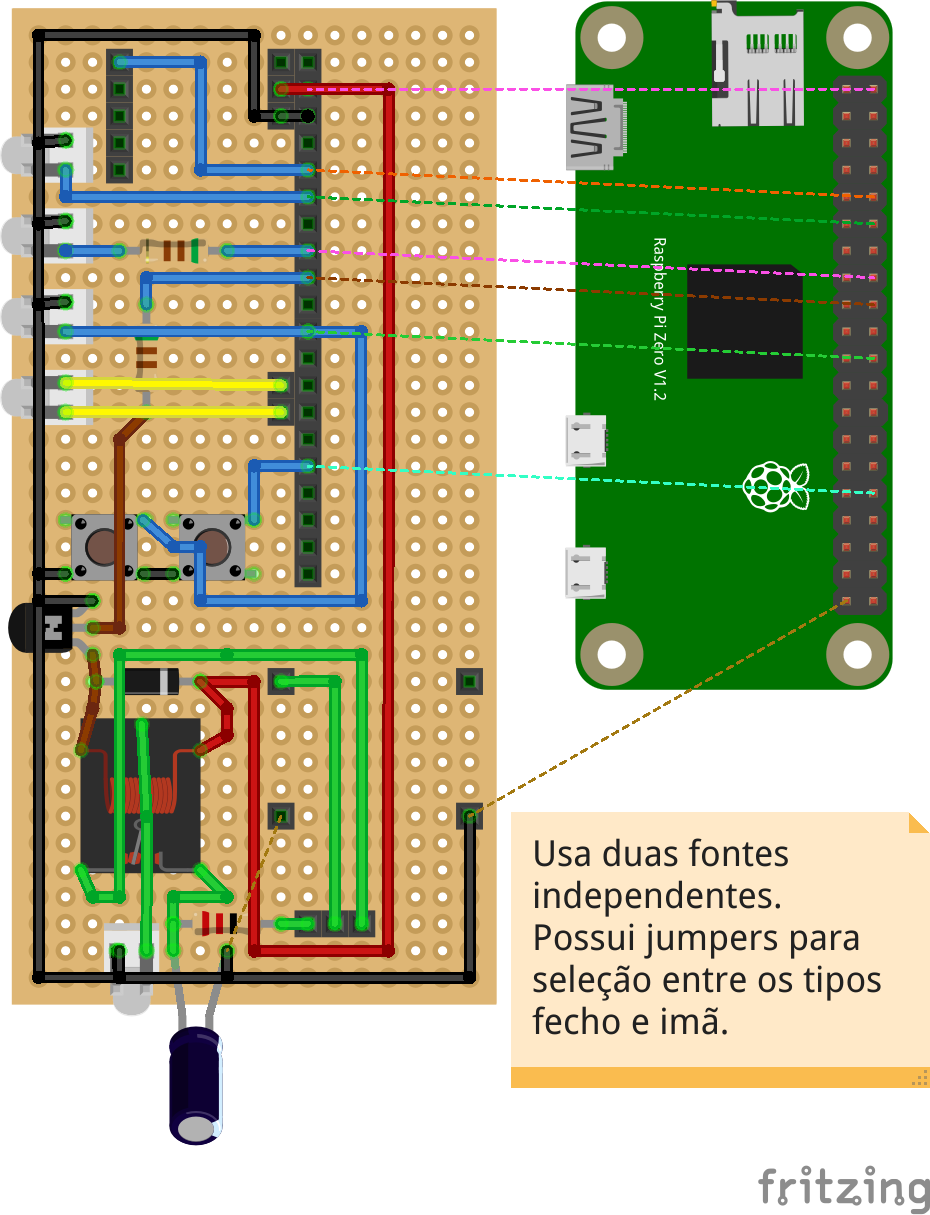
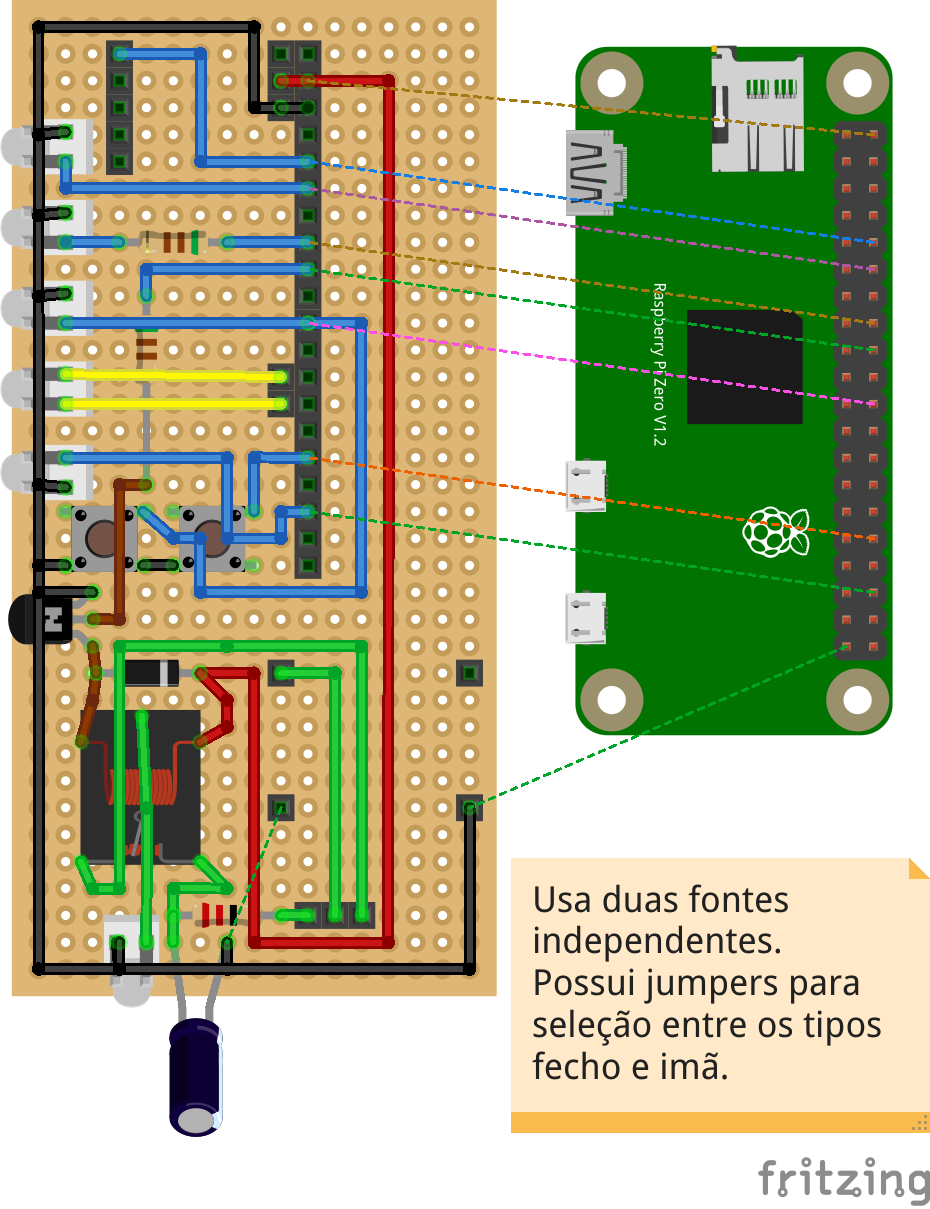
New isDoorOpened sensor in GPIO 16 pin in v5b

diff --git a/rasp/doorlock/boardModels.py b/rasp/doorlock/boardModels.py
@@ -15,14 +15,17 @@ class BoardModel:
         GPIO.setmode(GPIO.BCM)
         GPIO.setup(self.lockRelayPin,GPIO.OUT)
         GPIO.output(self.lockRelayPin,False)
-        GPIO.setup(self.activityLedPin,GPIO.OUT)
-        GPIO.output(self.activityLedPin,False)
-        GPIO.setup(self.pushButtonProgramPin,GPIO.IN, pull_up_down=GPIO.PUD_UP)
-        GPIO.setup(self.pushButtonCommandPin,GPIO.IN, pull_up_down=GPIO.PUD_UP)
+        GPIO.setup(self.activityLedPin, GPIO.OUT)
+        GPIO.output(self.activityLedPin, False)
+        GPIO.setup(self.pushButtonProgramPin, GPIO.IN, pull_up_down=GPIO.PUD_UP)
+        GPIO.setup(self.pushButtonCommandPin, GPIO.IN, pull_up_down=GPIO.PUD_UP)
         if self.speakerPin>0:
-            GPIO.setup(self.speakerPin,GPIO.OUT)
-            GPIO.output(self.speakerPin,False)
+            GPIO.setup(self.speakerPin, GPIO.OUT)
+            GPIO.output(self.speakerPin, False)
 
+        if self.doorOpenedPin>0:
+                GPIO.setup(self.doorOpenedPin, GPIO.IN, pull_up_down=GPIO.PUD_UP)
+    
         self.rfidReader =  RDM6300.RDM6300(self.activityLedPin, self.serialStr)
 
     def blinkActivityLed(self):
@@ -36,6 +39,10 @@ class BoardModel:
 
     def isCommandButtonPushed(self):
         return not GPIO.input(self.pushButtonCommandPin)
+
+    def isDoorOpened(self):
+        if self.doorOpenedPin>0:
+            return not GPIO.input(self.doorOpenedPin)
 
     def __execCommandButtonCallback(self, callbackFunction):
         #Lucio 20190521: Avoid 'switch bounce'
@@ -93,22 +100,23 @@ class BoardModel:
             speakerPwm.start(10)
             time.sleep(delay)
             speakerPwm.stop()
-
-    def __init__(self, lockRelayPin, lockRelayDelay, activityLedPin, pushButtonProgramPin, pushButtonCommandPin, speakerPin, serialStr):
+        
+    def __init__(self, lockRelayPin, lockRelayDelay, activityLedPin, pushButtonProgramPin, pushButtonCommandPin, speakerPin, doorOpenedPin, serialStr):
         self.lockRelayPin = lockRelayPin
         self.lockRelayDelay = lockRelayDelay
         self.activityLedPin = activityLedPin
         self.pushButtonProgramPin = pushButtonProgramPin
         self.pushButtonCommandPin = pushButtonCommandPin
         self.speakerPin = speakerPin
+        self.doorOpenedPin = doorOpenedPin
         self.serialStr = serialStr
         self.locked = True
 
 class BoardModels(Enum):
-    V1 = BoardModel(23,3,24,25,17,-1, '/dev/serial0')
-    V2 = BoardModel(23,3,24,25,17,-1, '/dev/serial0')
-    V3 = BoardModel(23,.1,25,16,12,-1,'/dev/serial0')
-    V4 = BoardModel(23,.1,24,16,25,12,'/dev/serial0')
-    V5 = BoardModel(24,.1,23,12,25,18,'/dev/serial0')
-    V6 = BoardModel(21,.1,16,18,23,12,'/dev/serial0')
+    V1 = BoardModel(23,3,24,25,17,-1,-1, '/dev/serial0')
+    V2 = BoardModel(23,3,24,25,17,-1,-1, '/dev/serial0')
+    V3 = BoardModel(23,.1,25,16,12,-1,-1,'/dev/serial0')
+    V4 = BoardModel(23,.1,24,16,25,12,-1,'/dev/serial0')
+    V5 = BoardModel(24,.1,23,12,25,18,16,'/dev/serial0')
+    V6 = BoardModel(21,.1,16,18,23,12,16,'/dev/serial0')
 
